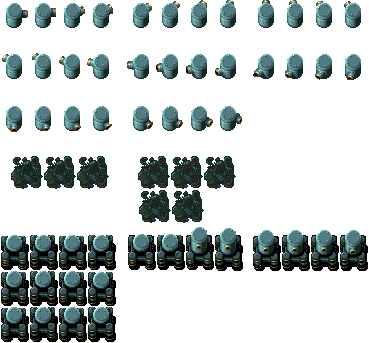
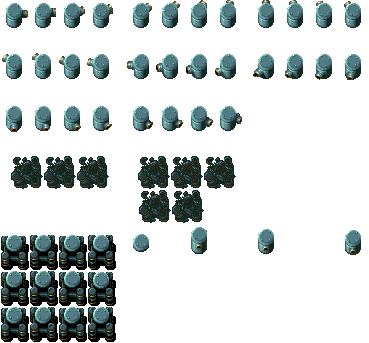
general turret path

Changed region(s): [[0.6856, 0.6706, 1.0, 0.7872], [0.3279, 0.6414, 0.6558, 0.7872]]

diff --git a/GunBird - CodedDreams/Enemy_General_Turret.cpp b/GunBird - CodedDreams/Enemy_General_Turret.cpp
@@ -43,6 +43,17 @@ Enemy_General_Turret::Enemy_General_Turret(int x, int y, int wave, int id) : Ene
 	dead.speed = 0.1f;
 	dead.loop = true;
 
+	appear_anim.PushBack({ 133, 227, 16, 28 });
+	appear_anim.PushBack({ 191, 227, 16, 28 });
+	appear_anim.PushBack({ 258, 227, 16, 28 });
+	appear_anim.PushBack({ 345, 227, 16, 28 });
+	appear_anim.speed = 0.08f;
+	appear_anim.loop = false;
+
+	gate = {64, 100, 130, 98}; //104, 2448
+	gate_pos.x = 104;
+	gate_pos.y = 2589;
+
 	//Set path
 	path.PushBack({ 0.0f, 0.09f }, 100, &idle); //Si esta quiet en un punt ha de tenir velocitat y = 0.2 per moures a la mateixa velocitat que l'overlay
 
@@ -89,18 +100,48 @@ Enemy_General_Turret::Enemy_General_Turret(int x, int y, int wave, int id) : Ene
 	initial_hp = lives;
 	points = 400;
 	explosion_type = SMALL1; //Explosion type
+	this->wave = wave;
+	this->id = id;
 
 	//Add and save collider
 	collider = App->collision->AddCollider({ x, y, 28, 35 }, COLLIDER_ENEMY, (Module*)App->enemies);
 	collider_pos.y = -6;
 
-	if (wave == 3 && id == 2)
+	if (wave == 3)
 	{
-		App->enemies->AddEnemy(GENERAL_TURRET, 160, 2618, 3, 1);
-		App->enemies->AddEnemy(GENERAL_TURRET, 194, 2618, 3, 1);
-		App->enemies->AddEnemy(GENERAL_TURRET, 127, 2648, 3);
-		App->enemies->AddEnemy(GENERAL_TURRET, 160, 2648, 3);
-		App->enemies->AddEnemy(GENERAL_TURRET, 194, 2648, 3);
+		collider->rect = { 0, 0, 0, 0 };
+		if (id == 2)
+		{
+			App->enemies->AddEnemy(GENERAL_TURRET, 160, 2618, 3, 1);
+			App->enemies->AddEnemy(GENERAL_TURRET, 194, 2618, 3, 1);
+			App->enemies->AddEnemy(GENERAL_TURRET, 127, 2648, 3);
+			App->enemies->AddEnemy(GENERAL_TURRET, 160, 2648, 3, 4);
+			App->enemies->AddEnemy(GENERAL_TURRET, 194, 2648, 3, 3);
+		}
+		if (id == 3)
+		{
+			appear_Start_time = SDL_GetTicks();
+		}
+	}
+
+	if (wave == 1)
+	{
+		if (id == 1)
+		{
+			path.PushBack({ 0.0f, 0.09f }, 50, &idle);
+			path.PushBack({ -0.3f, 0.09f }, 1000, &idle);
+		}
+		else if (id == 2)
+		{
+			path.PushBack({ 0.0f, 0.09f }, 50, &idle);
+			path.PushBack({ 0.3f, 0.09f }, 1000, &idle);
+		}
+	}
+	else if (wave == 2)
+	{
+		path.PushBack({ 0.0f, 0.09f }, 50, &idle);
+		path.PushBack({ -0.5f, 0.09f }, 244, &idle);
+		path.PushBack({ 0.0f, 0.09f }, 1000, &idle);
 	}
 
 }
@@ -117,32 +158,66 @@ void Enemy_General_Turret::Move()
 
 void Enemy_General_Turret::ExtraAnim(SDL_Texture* texture)
 {
-	vector.x = (App->player1->position.x - (App->render->camera.x + position.x));
-	vector.y = (App->player1->position.y - (App->render->camera.y + position.y));
-	distance[0] = sqrt(pow(vector.x, 2.0) + pow(vector.y, 2.0));
-	vector.x = (App->player2->position.x - (App->render->camera.x + position.x));
-	vector.y = (App->player2->position.y - (App->render->camera.y + position.y));
-	distance[1] = sqrt(pow(vector.x, 2.0) + pow(vector.y, 2.0));
-	if (distance[0] <= distance[1])
-		player = App->player1;
-	else
-		player = App->player2;
-	//---------------------------------------------------------------------------------------
-	for (int i = 0; i < 2; i++)
+	if (wave == 3 && App->scene_mine->turret_appeared == false)
 	{
-		vector.x = (player->position.x - (App->render->camera.x + position.x + 13));
-		vector.y = (player->position.y - (App->render->camera.y + position.y));
-		angle = atan(vector.x / vector.y) * 180 / PI;
-		if (vector.y > 0) angle = 360 - 90 + angle;
-		else angle = 90 + angle;
-		
-		if (angle >= 0 && angle < 34)
+		if (id == 3)
 		{
-			App->render->Blit(texture, App->render->camera.x + position.x, App->render->camera.y + position.y - 9, &angles[0]);
+			appear_now = SDL_GetTicks() - appear_Start_time;
+			if (appear_now > appear_Total_time)
+			{
+				if (appear_now > appear_Total_time + 1300)
+				{
+					App->scene_mine->turret_appearing = true;
+				}
+				appearing = true;
+			}
+			if (appearing)
+			{
+				gate_pos.x += 1.5f;
+			}
+			gate_pos.y += 0.09f;
+			App->render->Blit(App->scene_mine->graphics_above_background_anims_text, App->render->camera.x + gate_pos.x, App->render->camera.y + gate_pos.y, &gate); // 2448 | 141
 		}
-		else
+	}
+	if (wave == 3 && App->scene_mine->turret_appearing && App->scene_mine->turret_appeared == false)
+	{
+		App->render->Blit(texture, App->render->camera.x + position.x + 5, App->render->camera.y + position.y - 9, &appear_anim.GetCurrentFrame());
+		if (appear_anim.Finished())
 		{
-			App->render->Blit(texture, (App->render->camera.x + position.x), (App->render->camera.y + position.y - ((angle < 125 && angle > 34)? 9 : 8)), &angles[(int)((float)angle / 11.25f)]);
+			collider->rect = { (int)position.x, (int)position.y, 28, 35 };
+			if (id == 4)
+				App->scene_mine->turret_appeared = true;
+		}
+	}
+	if (wave == 3 && App->scene_mine->turret_appeared || wave != 3)
+	{
+		vector.x = (App->player1->position.x - (App->render->camera.x + position.x));
+		vector.y = (App->player1->position.y - (App->render->camera.y + position.y));
+		distance[0] = sqrt(pow(vector.x, 2.0) + pow(vector.y, 2.0));
+		vector.x = (App->player2->position.x - (App->render->camera.x + position.x));
+		vector.y = (App->player2->position.y - (App->render->camera.y + position.y));
+		distance[1] = sqrt(pow(vector.x, 2.0) + pow(vector.y, 2.0));
+		if (distance[0] <= distance[1])
+			player = App->player1;
+		else
+			player = App->player2;
+		//---------------------------------------------------------------------------------------
+		for (int i = 0; i < 2; i++)
+		{
+			vector.x = (player->position.x - (App->render->camera.x + position.x + 13));
+			vector.y = (player->position.y - (App->render->camera.y + position.y));
+			angle = atan(vector.x / vector.y) * 180 / PI;
+			if (vector.y > 0) angle = 360 - 90 + angle;
+			else angle = 90 + angle;
+
+			if (angle >= 0 && angle < 34)
+			{
+				App->render->Blit(texture, App->render->camera.x + position.x - 1, App->render->camera.y + position.y - 9, &angles[0]);
+			}
+			else
+			{
+				App->render->Blit(texture, (App->render->camera.x + position.x - 1), (App->render->camera.y + position.y - ((angle < 125 && angle > 34) ? 9 : 8)), &angles[(int)((float)angle / 11.25f)]);
+			}
 		}
 	}
 }

diff --git a/GunBird - CodedDreams/ModuleSceneMine.cpp b/GunBird - CodedDreams/ModuleSceneMine.cpp
@@ -46,6 +46,8 @@ bool ModuleSceneMine::Start()
 	App->render->camera.x  = 0;
 	App->render->camera.y = -3210;
 	overlay_position = 0;
+	turret_appeared = false;
+	turret_appearing = false;
 
 	//Set enemies
 	App->enemies->AddEnemy(FLYING_MACHINE, 224, 3230);
@@ -135,17 +137,11 @@ bool ModuleSceneMine::Start()
 	App->enemies->AddEnemy(GENERAL_TURRET, 132, 3012, 1, 2);
 
 	//General Turret Wave 2
-	App->enemies->AddEnemy(GENERAL_TURRET, 103, 2803, 2);
-	App->enemies->AddEnemy(GENERAL_TURRET, 154, 2803, 2);
+	App->enemies->AddEnemy(GENERAL_TURRET, 225, 2803, 2);
+	App->enemies->AddEnemy(GENERAL_TURRET, 276, 2803, 2);
 
 	//General Turret Wave 3
 	App->enemies->AddEnemy(GENERAL_TURRET, 127, 2618, 3, 2);
-	/*App->enemies->AddEnemy(GENERAL_TURRET, 160, 2618, 3, 1);
-	App->enemies->AddEnemy(GENERAL_TURRET, 194, 2618, 3, 1);
-	App->enemies->AddEnemy(GENERAL_TURRET, 127, 2643, 3);
-	App->enemies->AddEnemy(GENERAL_TURRET, 160, 2643, 3);
-	App->enemies->AddEnemy(GENERAL_TURRET, 194, 2643, 3);*/
-
 
 	//LEDS AND BLOWS
 	{

diff --git a/GunBird - CodedDreams/Enemy_General_Turret.h b/GunBird - CodedDreams/Enemy_General_Turret.h
@@ -22,6 +22,8 @@ public:
 	Path path;
 	Animation idle;
 	Animation dead;
+	Animation appear_anim;
+	SDL_Rect gate;
 
 private:
 
@@ -30,6 +32,13 @@ private:
 	int angle;
 	Player* player;
 	SDL_Rect angles[32];
+	bool appearing = false;
+	bool gate_opened = false;
+	fPoint gate_pos;
+
+	Uint32 appear_now;
+	Uint32 appear_Start_time;
+	Uint32 appear_Total_time = (Uint32)(6000.0f);
 
 };
 

diff --git a/GunBird - CodedDreams/ModuleSceneMine.h b/GunBird - CodedDreams/ModuleSceneMine.h
@@ -36,6 +36,8 @@ public:
 	float overlay_position;
 	float overlay_speed = 0.09f;
 	bool lost = false;
+	bool turret_appeared = false;
+	bool turret_appearing = false;
 
 	bool fading;
 };
